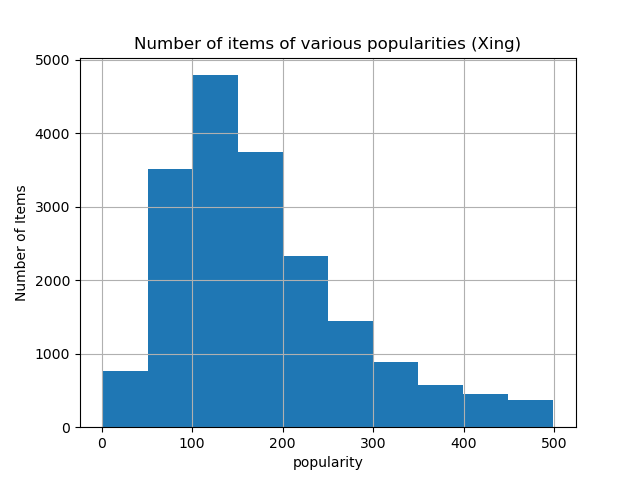
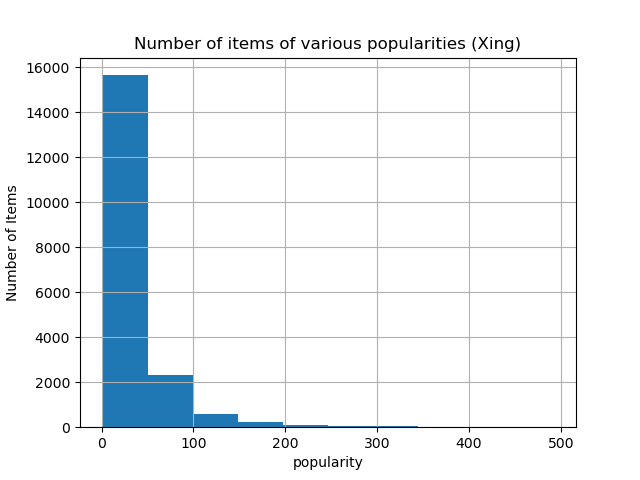
Experiments for sequential bias

diff --git a/PaddingSequenceRNN/evaluation.py b/PaddingSequenceRNN/evaluation.py
@@ -6,6 +6,7 @@ from metric import *
 from collections import defaultdict
 import matplotlib
 import matplotlib.pyplot as plt
+from mpl_toolkits.mplot3d import Axes3D
 
 class Evaluation(object):
 	def __init__(self, model, loss_func, use_cuda, k=20, warm_start=5):
@@ -24,10 +25,8 @@ class Evaluation(object):
 		mrrs = []
 		weights = []
 
-		if popularity == None:
-			item_popularity = defaultdict(int)  
-		else:
-			item_popularity = popularity
+
+		item_popularity = defaultdict(int)  
 		item_recalls = defaultdict(list)
 		item_mrrs = defaultdict(list)
 
@@ -37,22 +36,21 @@ class Evaluation(object):
 
 		eval_iter = 0
 
-		pad = []
-
 		with torch.no_grad():
 			total_test_num = []
-			for input_x_batch, target_y_batch, x_len_batch, idx_batch in dataloader:
-				input_x_batch = input_x_batch.to(self.device)
-				target_y_batch = target_y_batch.to(self.device)
+			for input_x_batch, target_y_batch, input_t_batch, x_len_batch, idx_batch in dataloader:
+				input_x_batch = input_x_batch.to(self.device) #size = (batch size, max seq len)
+				target_y_batch = target_y_batch.to(self.device) #size = batch size
+				input_t_batch = input_t_batch.to(self.device) #size = (batch size, max seq len)
 				warm_start_mask = (idx_batch>=self.warm_start).to(self.device)
 
 				# Find popularity based on number of interactions in data
-				if popularity == None: 
-					for seq in input_x_batch:
-						for item in seq:
-							item_popularity[item.item()] += 1
-					for item in target_y_batch:
+				for seq in input_x_batch:
+					for item in seq:
 						item_popularity[item.item()] += 1
+
+				for target in target_y_batch:
+					item_popularity[target.item()] += 1
 				
 				for k, v in item_popularity.items():
 					if k not in items_time:
@@ -70,78 +68,56 @@ class Evaluation(object):
 				loss_batch = self.loss_func(logit_sampled_batch, target_y_batch)
 
 				losses.append(loss_batch.item())
-				
+
 				recall_batch, item_rec, mrr_batch, item_mrr = evaluate(logit_batch, target_y_batch, warm_start_mask, k=self.topk, debug=debug)
+			
+				for rec_item, rec in item_rec.items():
+					item_recalls[rec_item].append(rec)
 
-				for k, v in item_rec.items():
-					item_recalls[k].append(v)
-
-				for k, v in item_mrr.items():
-					item_mrrs[k].append(v)
+				for mrr_item, mrr in item_mrr.items():
+					item_mrrs[mrr_item].append(mrr)
 
 				weights.append( int( warm_start_mask.int().sum() ) )
 				recalls.append(recall_batch)
 				mrrs.append(mrr_batch)
 
 				total_test_num.append(target_y_batch.view(-1).size(0))
+				
 
-		for k in item_popularity.keys():
-			if k not in item_recalls:
-				item_recalls[k].append(0)
-			if k not in item_mrrs:
-				item_mrrs[k].append(0)
+		for key in item_popularity.keys():
+			if key not in item_recalls:
+				item_recalls[key].append(0)
+			if key not in item_mrrs:
+				item_mrrs[key].append(0)
 
-		for k, v in item_recalls.items():
-			item_recalls[k] = np.mean(v)
+		for item, recall in item_recalls.items():
+			item_recalls[item] = np.mean(recall)
 
-		for k, v in item_mrrs.items():
-			item_mrrs[k] = np.mean(v)
+		for item, mrr in item_mrrs.items():
+			item_mrrs[item] = np.mean(mrr)
 
 		recall_popularities = defaultdict(list)
 		mrr_popularities = defaultdict(list)
 
-		for k, v in item_popularity.items():
-			if v < 500:
-				if v < 50:
-					recall_popularities[0].append(item_recalls[k])
-					mrr_popularities[0].append(item_mrrs[k])
-				elif v >= 50 and v < 75:
-					recall_popularities[1].append(item_recalls[k])
-					mrr_popularities[1].append(item_mrrs[k])
-				elif v >= 75 and v < 100:
-					recall_popularities[2].append(item_recalls[k])
-					mrr_popularities[2].append(item_mrrs[k])
-				elif v >= 100 and v < 150:
-					i = ((v - 100) // 10) + 3
-					recall_popularities[i].append(item_recalls[k])
-					mrr_popularities[i].append(item_mrrs[k])
-				elif v >= 150 and v < 175:
-					recall_popularities[8].append(item_recalls[k])
-					mrr_popularities[8].append(item_mrrs[k])
-				elif v >= 175 and v < 200:
-					recall_popularities[8].append(item_recalls[k])
-					mrr_popularities[8].append(item_mrrs[k])
-				elif v >= 200 and v < 250:
-					recall_popularities[9].append(item_recalls[k])
-					mrr_popularities[9].append(item_mrrs[k])
-				elif v >= 250 and v < 300:
-					recall_popularities[10].append(item_recalls[k])
-					mrr_popularities[10].append(item_mrrs[k])
-				else:
-					recall_popularities[11].append(item_recalls[k])
-					mrr_popularities[11].append(item_mrrs[k])
-				
+		pops = sorted(list(item_popularity.values()))
+		pop_len = len(pops)
+		pop_bins = [pops[int(pop_len * .1)], pops[int(pop_len * .25)], pops[int(pop_len * .40)], pops[int(pop_len * .55)], pops[int(pop_len * .70)], pops[int(pop_len * .85)], pops[-1]]
+		for pop_item, pop in item_popularity.items():
+			for pop_index in range(len(pop_bins)):
+				if pop <= pop_bins[pop_index]:
+					recall_popularities[pop_index].append(item_recalls[pop_item])
+					mrr_popularities[pop_index].append(item_mrrs[pop_item])
+					break
 
-
-		for k in recall_popularities.keys():
-			recall_vals = recall_popularities[k]
-			mrr_vals = mrr_popularities[k]
-			recall_popularities[k] = np.mean(recall_vals)
-			mrr_popularities[k] = np.mean(mrr_vals)
+		for item in recall_popularities.keys():
+			recall_vals = recall_popularities[item]
+			mrr_vals = mrr_popularities[item]
+			recall_popularities[item] = np.mean(recall_vals)
+			mrr_popularities[item] = np.mean(mrr_vals)
 
 		recall_fig, ax = plt.subplots()
 		ax.bar(list(recall_popularities.keys()), list(recall_popularities.values()))
-		ax.set(xlabel='popularity', ylabel='Recall@20',
+		ax.set(xlabel='popularity', ylabel='Recall@1',
 			title='Recall of items with varying popularity (Xing RNN)')
 		ax.grid()
 		recall_fig.savefig("recall_popularity_train.png") if popularity == None else recall_fig.savefig("recall_popularity_test.png")
@@ -149,7 +125,7 @@ class Evaluation(object):
 
 		mrr_fig, axm = plt.subplots()
 		axm.bar(list(mrr_popularities.keys()), list(mrr_popularities.values()))
-		axm.set(xlabel='popularity', ylabel='MRR@20',
+		axm.set(xlabel='popularity', ylabel='MRR@1',
 			title='MRR of items with varying popularity (Xing RNN)')
 		axm.grid()
 		mrr_fig.savefig("mrr_popularity_train.png") if popularity == None else mrr_fig.savefig("mrr_popularity_test.png")
@@ -184,4 +160,4 @@ class Evaluation(object):
 		mean_recall = np.average(recalls, weights=weights)
 		mean_mrr = np.average(mrrs, weights=weights)
 	#         print(recalls, mrrs, weights)
-		return mean_losses, mean_recall, mean_mrr, item_popularity
+		return mean_losses, mean_recall, mean_mrr

diff --git a/PaddingSequenceRNN/dataset.py b/PaddingSequenceRNN/dataset.py
@@ -13,6 +13,9 @@ class Dataset(object):
 		action_seq_arr_total = None
 		data_seq_arr = pickle.load(data_file)
 
+
+		time_seq_arr_total = pickle.load(open(itemFile.replace("item", "time"), "rb"))
+
 		if data_name == "movielen_itemmap":
 			action_seq_arr_total = data_seq_arr['action_list']
 			itemmap = data_seq_arr['itemmap']
@@ -41,6 +44,7 @@ class Dataset(object):
 		self.m_input_action_seq_list = []
 		self.m_target_action_seq_list = []
 		self.m_input_seq_idx_list = []
+		self.m_time_action_seq_list = []
 
 		print("loading item map")
 		
@@ -73,6 +77,7 @@ class Dataset(object):
 		print("loading data")
 		for seq_index in range(seq_num):
 			action_seq_arr = self.m_seq_list[seq_index]
+			time_seq_arr = time_seq_arr_total[seq_index]
 
 			action_num_seq = len(action_seq_arr)
 
@@ -82,13 +87,14 @@ class Dataset(object):
 			for action_index in range(action_num_seq):
 				if action_index < observed_threshold:
 					continue
-
+				
 				if action_index <= window_size:
 					input_sub_seq = action_seq_arr[:action_index]
 					target_sub_seq = action_seq_arr[action_index]
 					self.m_input_action_seq_list.append(input_sub_seq)
 					self.m_target_action_seq_list.append(target_sub_seq)
 					self.m_input_seq_idx_list.append(action_index)
+					self.m_time_action_seq_list.append(time_seq_arr[:action_index])
 
 				if action_index > window_size:
 					input_sub_seq = action_seq_arr[action_index-window_size:action_index]
@@ -96,6 +102,9 @@ class Dataset(object):
 					self.m_input_action_seq_list.append(input_sub_seq)
 					self.m_target_action_seq_list.append(target_sub_seq)
 					self.m_input_seq_idx_list.append(action_index)
+					self.m_time_action_seq_list.append(time_seq_arr[action_index-window_size:action_index])
+
+				#print(self.m_time_action_seq_list)
 	
 	def __len__(self):
 		return len(self.m_input_action_seq_list)
@@ -103,14 +112,16 @@ class Dataset(object):
 	def __getitem__(self, index):
 		x = self.m_input_action_seq_list[index]
 		y = self.m_target_action_seq_list[index]
-
-		x = np.array(x)
-		y = np.array(y)
+		t = self.m_time_action_seq_list[index]
+		
+		x = np.asarray(x)
+		y = np.asarray(y)
 
 		x_tensor = torch.LongTensor(x)
 		y_tensor = torch.LongTensor(y)
+		t_tensor = torch.LongTensor(t)
 
-		return x_tensor, y_tensor
+		return x_tensor, y_tensor, t_tensor
 
 	@property
 	def items(self):
@@ -125,11 +136,15 @@ class DataLoader():
 	def __iter__(self):
 		
 		print("shuffling")
-		temp = list(zip(self.m_dataset.m_input_action_seq_list, self.m_dataset.m_target_action_seq_list, self.m_dataset.m_input_seq_idx_list))
+		temp = list(zip(self.m_dataset.m_input_action_seq_list, self.m_dataset.m_target_action_seq_list, self.m_dataset.m_time_action_seq_list, self.m_dataset.m_input_seq_idx_list))
 		random.shuffle(temp)
 		
-		input_action_seq_list, target_action_seq_list, input_seq_idx_list = zip(*temp)
+		input_action_seq_list, target_action_seq_list, input_time_seq_list, input_seq_idx_list = zip(*temp)
 
+		input_action_seq_list = self.m_dataset.m_input_action_seq_list
+		target_action_seq_list = self.m_dataset.m_target_action_seq_list
+		input_time_seq_list = self.m_dataset.m_time_action_seq_list
+		input_seq_idx_list = self.m_dataset.m_input_seq_idx_list
 		batch_size = self.m_batch_size
         
 		input_num = len(input_action_seq_list)
@@ -138,26 +153,30 @@ class DataLoader():
 		for batch_index in range(batch_num):
 			x_batch = []
 			y_batch = []
+			t_batch = []
 			idx_batch = []
 
 			for seq_index_batch in range(batch_size):
 				seq_index = batch_index*batch_size+seq_index_batch
 				x = input_action_seq_list[seq_index]
 				y = target_action_seq_list[seq_index]
+				t = input_time_seq_list[seq_index]
                 
 				x_batch.append(x)
 				y_batch.append(y)
+				t_batch.append(t)
 				idx_batch.append(input_seq_idx_list[seq_index])
                 
-			x_batch, y_batch, x_len_batch, idx_batch = self.batchifyData(x_batch, y_batch, idx_batch)
+			x_batch, y_batch, t_batch, x_len_batch, idx_batch = self.batchifyData(x_batch, y_batch, t_batch, idx_batch)
 
 			x_batch_tensor = torch.LongTensor(x_batch)
 			y_batch_tensor = torch.LongTensor(y_batch)
+			t_batch_tensor = torch.LongTensor(t_batch)
 			idx_batch_tensor = torch.LongTensor(idx_batch)
             
-			yield x_batch_tensor, y_batch_tensor, x_len_batch, idx_batch_tensor
+			yield x_batch_tensor, y_batch_tensor, t_batch_tensor, x_len_batch, idx_batch_tensor
 
-	def batchifyData(self, input_action_seq_batch, target_action_seq_batch, idx_batch):
+	def batchifyData(self, input_action_seq_batch, target_action_seq_batch, input_time_seq_batch, idx_batch):
 		seq_len_batch = [len(seq_i) for seq_i in input_action_seq_batch]
 
 		longest_len_batch = max(seq_len_batch)
@@ -165,14 +184,15 @@ class DataLoader():
 
 		pad_input_action_seq_batch = np.zeros((batch_size, longest_len_batch))
 		pad_target_action_seq_batch = np.zeros(batch_size)
+		pad_input_time_seq_batch = np.zeros((batch_size, longest_len_batch))
 		pad_seq_len_batch = np.zeros(batch_size)
 		pad_idx_batch = np.zeros(batch_size)
 
-		zip_batch = sorted(zip(seq_len_batch, input_action_seq_batch, target_action_seq_batch, idx_batch), reverse=True)
+		zip_batch = sorted(zip(seq_len_batch, input_action_seq_batch, target_action_seq_batch, input_time_seq_batch, idx_batch), key=lambda x: x[0], reverse=True)
 
-		for seq_i, (seq_len_i, input_action_seq_i, target_action_seq_i, seq_idx) in enumerate(zip_batch):
-
+		for seq_i, (seq_len_i, input_action_seq_i, target_action_seq_i, input_time_seq_i, seq_idx) in enumerate(zip_batch):
 			pad_input_action_seq_batch[seq_i, 0:seq_len_i] = input_action_seq_i
+			pad_input_time_seq_batch[seq_i, 0:seq_len_i] = input_time_seq_i
 			pad_target_action_seq_batch[seq_i] = target_action_seq_i
 			pad_seq_len_batch[seq_i] = seq_len_i
 			pad_idx_batch[seq_i] = seq_idx
@@ -180,4 +200,4 @@ class DataLoader():
 		### map item id back to start from 0
 		# target_action_seq_batch = [target_i-1 for target_i in target_action_seq_batch]
 
-		return pad_input_action_seq_batch, pad_target_action_seq_batch, pad_seq_len_batch, pad_idx_batch
+		return pad_input_action_seq_batch, pad_target_action_seq_batch, pad_input_time_seq_batch, pad_seq_len_batch, pad_idx_batch

diff --git a/PaddingSequenceRNN/trainer.py b/PaddingSequenceRNN/trainer.py
@@ -30,10 +30,10 @@ class Trainer(object):
             print("*"*10, epoch, "*"*5)
             st = time.time()
             train_loss = self.train_epoch(epoch, batch_size)
-            loss, recall, mrr, popularity = self.evaluation.eval(self.train_data, batch_size)
-            print("train Epoch: {}, train loss: {:.4f},  loss: {:.4f},recall: {:.4f}, mrr: {:.4f}, time: {}".format(epoch, train_loss, loss, recall, mrr, time.time() - st))
+            loss, recall, mrr = self.evaluation.eval(self.train_data, batch_size)
+            print("train Epoch: {}, train loss: {:.4f},  loss: {:.4f}, recall: {:.4f}, mrr: {:.4f}, time: {}".format(epoch, train_loss, loss, recall, mrr, time.time() - st))
 
-            loss, recall, mrr, _ = self.evaluation.eval(self.eval_data, batch_size, popularity=popularity)
+            loss, recall, mrr = self.evaluation.eval(self.eval_data, batch_size, popularity="test")
             print("Epoch: {}, loss: {:.4f}, recall: {:.4f}, mrr: {:.4f}, time: {}".format(epoch, loss, recall, mrr, time.time() - st))
 #             checkpoint = {
 #                 'model': self.model.state_dict(),
@@ -59,7 +59,7 @@ class Trainer(object):
             return hidden
        
         dataloader = self.train_data
-        for input_x_batch, target_y_batch, x_len_batch, _ in dataloader:
+        for input_x_batch, target_y_batch, input_t_batch, x_len_batch, _ in dataloader:
             input_x_batch = input_x_batch.to(self.device)
             target_y_batch = target_y_batch.to(self.device)
 

diff --git a/PaddingSequenceRNN/metric.py b/PaddingSequenceRNN/metric.py
@@ -32,7 +32,7 @@ def get_recall(indices, targets, mask):
         item = targets[x,0]
         item_recalls[item.item()] += 1
 
-    for item,hit in item_recalls.items():
+    for item, hit in item_recalls.items():
         item_recalls[item] = float(hit) / float(item_counts[item])
 
     recall = float(hits.size(0)) / float( mask.int().sum())
@@ -74,7 +74,7 @@ def get_mrr(indices, targets, mask):
         item_mrrs[item.item()] += rranks[x].item()
 
     for item,rank in item_mrrs.items():
-        item_mrrs[item] = float(rank) / float(item_counts[item])
+        item_mrrs[item] = rank / float(item_counts[item])
 
     mrr = torch.sum(rranks).data / float( mask.int().sum())
     return mrr.item(), item_mrrs
